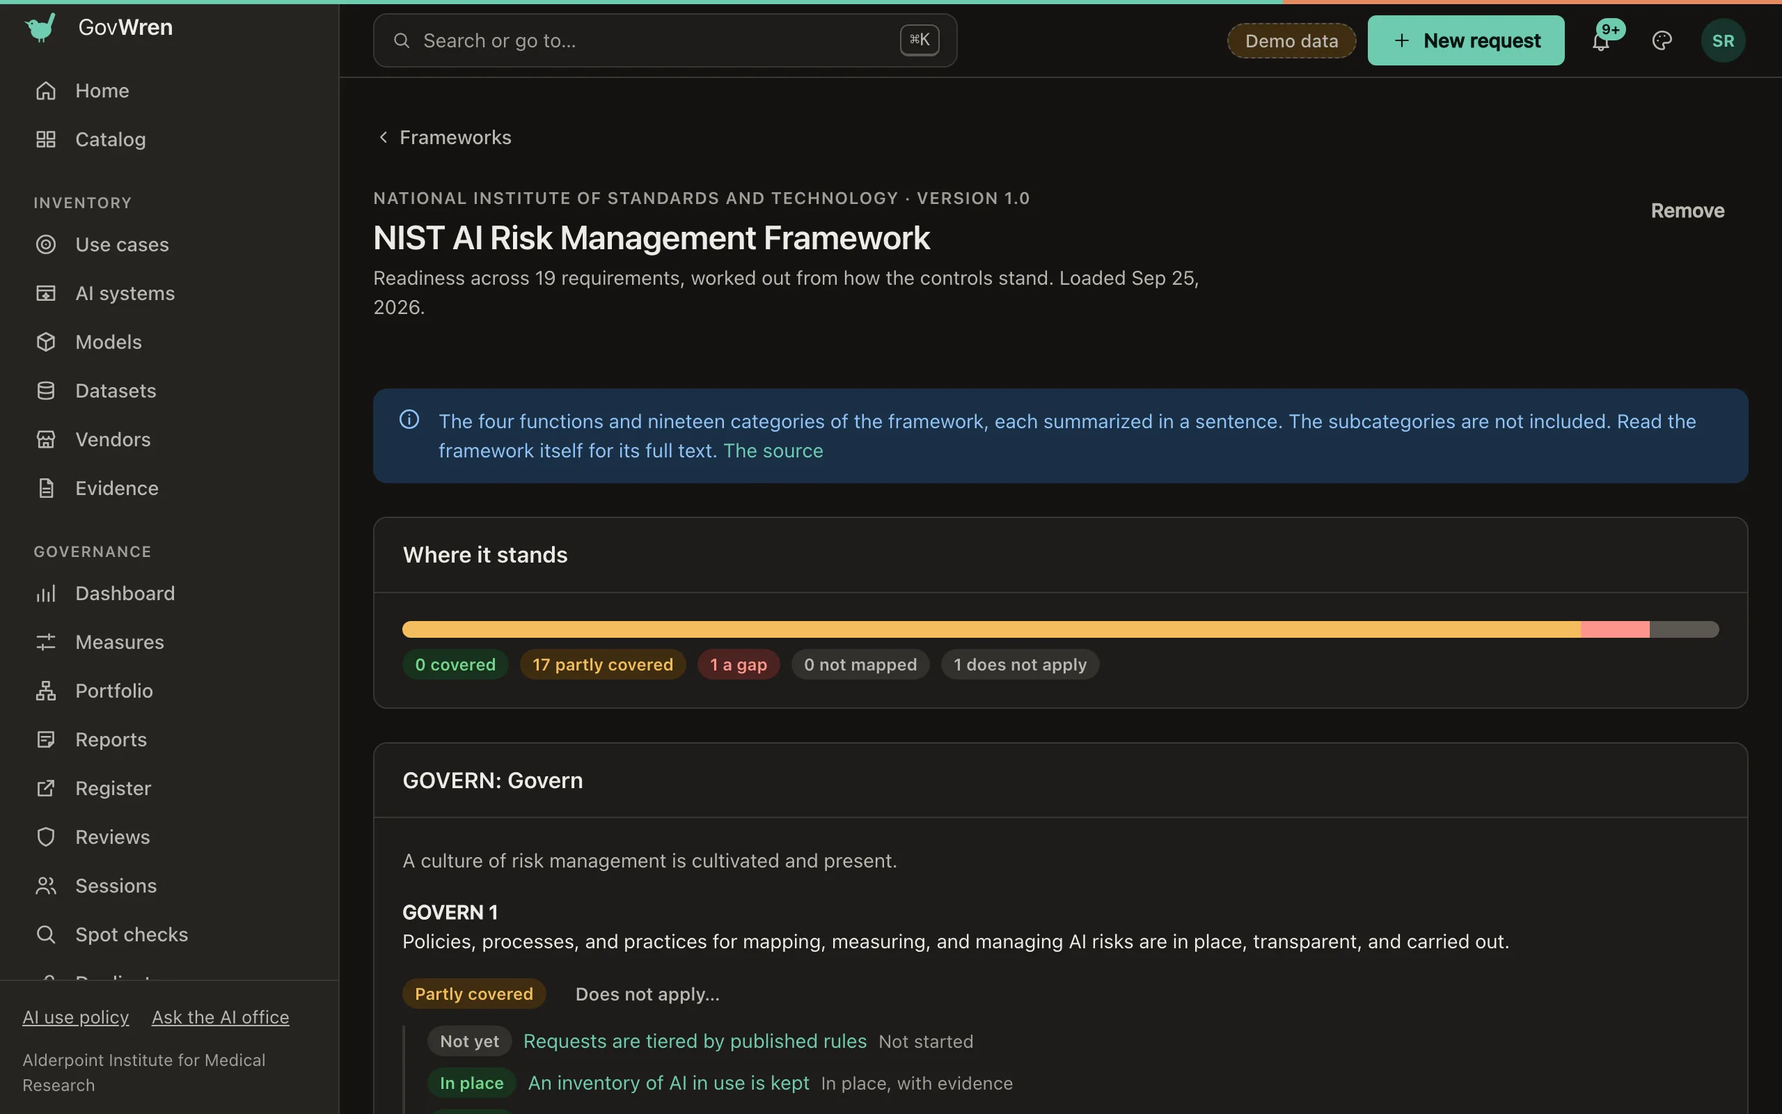
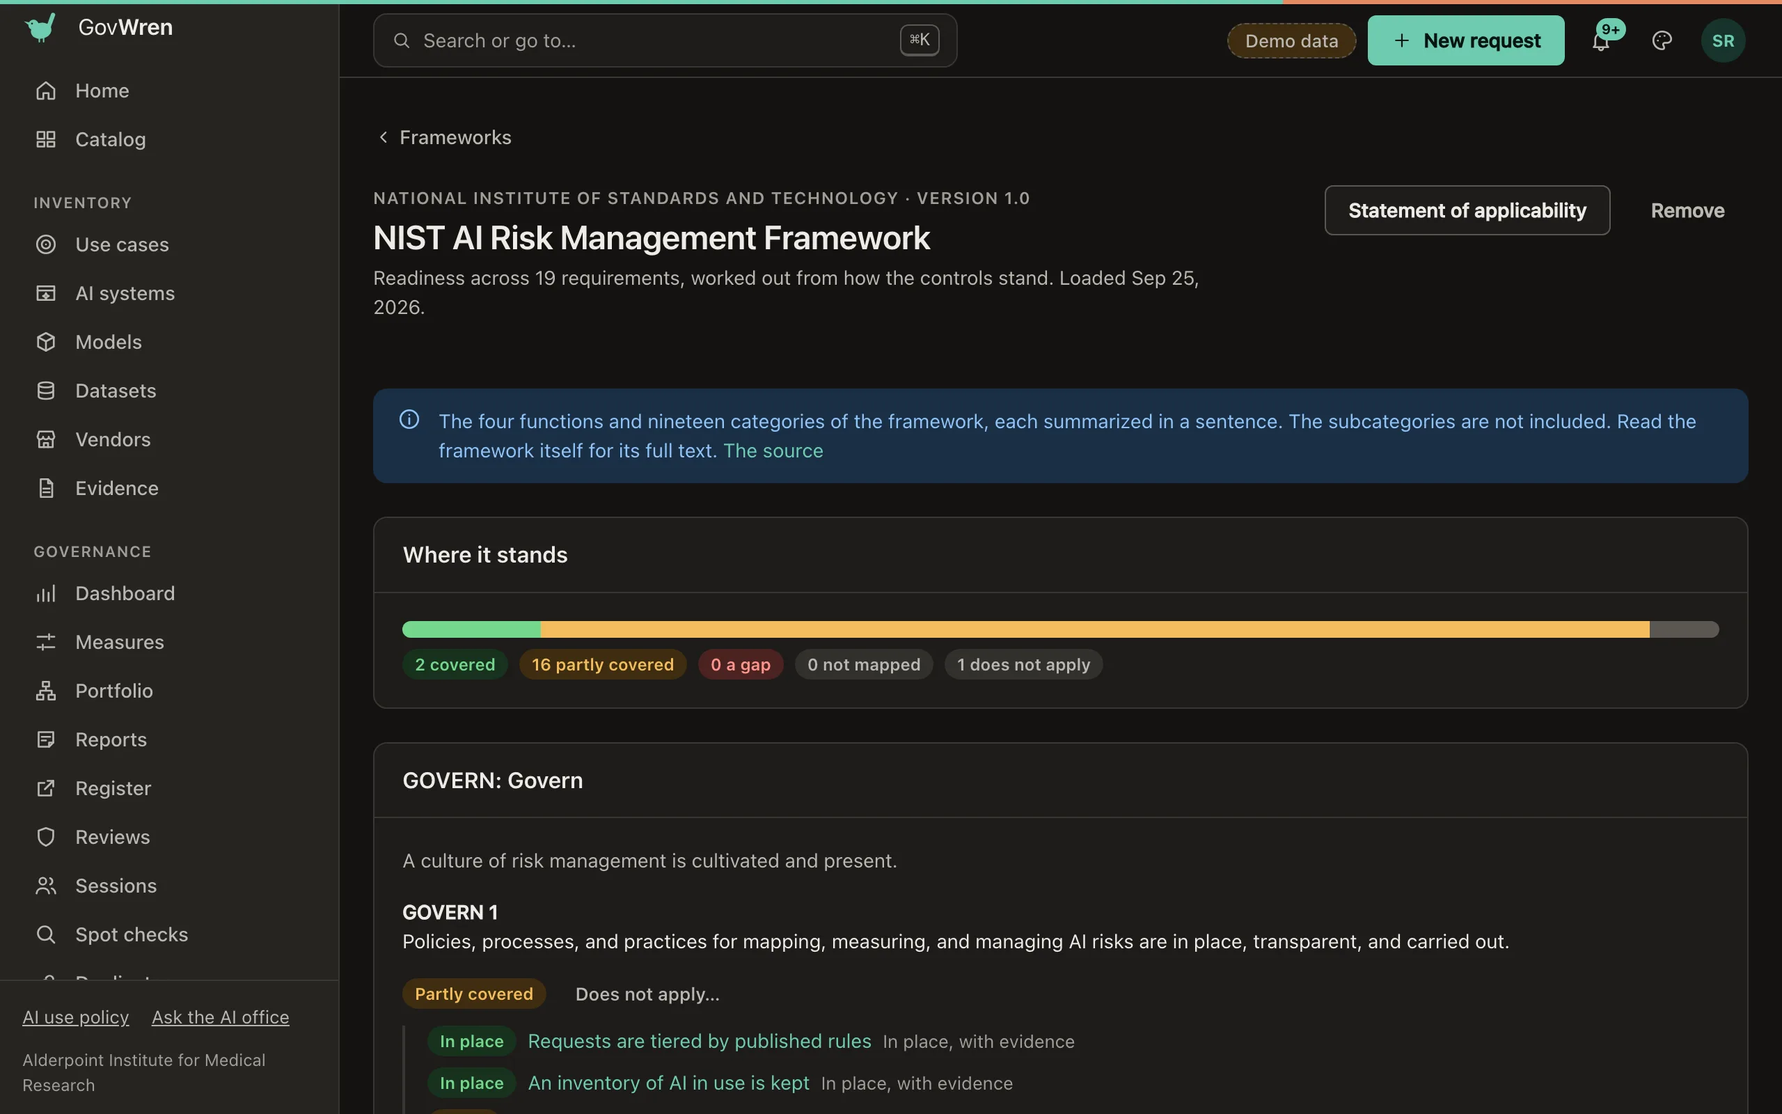
Wave 8, slice 3: applicability and alignment
The statement of applicability against a loaded framework, and a guide
to what GovWren does, evidences, and leaves alone under each standard.

diff --git a/src/govwren/web/static/js/pages/frameworks.js b/src/govwren/web/static/js/pages/frameworks.js
@@ -100,7 +100,8 @@ export function frameworkPage(main, params) {
       return h("div", { class: "stack-lg" },
         h("a", { class: "back-link", href: "/frameworks" }, icon("chevron-left", "icon icon-sm"), "Frameworks"),
         pageHeader({ eyebrow: [framework.publisher, framework.version ? `Version ${framework.version}` : null].filter(Boolean).join(" · "), title: framework.title,
-          lede: `Readiness across ${framework.total} requirements, worked out from how the controls stand. Loaded ${date(framework.loaded_at)}.`, actions: remove }),
+          lede: `Readiness across ${framework.total} requirements, worked out from how the controls stand. Loaded ${date(framework.loaded_at)}.`,
+          actions: [h("a", { class: "btn", href: `/api/v1/statement-of-applicability?framework=${encodeURIComponent(framework.key)}`, download: `statement-of-applicability-${framework.key}.csv` }, "Statement of applicability"), remove] }),
         framework.attribution ? alert("info", icon("info"), h("div", {}, framework.attribution, framework.source_url ? [" ", h("a", { href: framework.source_url, target: "_blank", rel: "noopener noreferrer" }, "The source")] : null)) : null,
         card({ title: "Where it stands" }, summary(framework.counts)),
         framework.requirements.map((group) => card({ title: group.title ? `${group.code}: ${group.title}` : group.code },

diff --git a/src/govwren/assurance/frameworks.py b/src/govwren/assurance/frameworks.py
@@ -389,9 +389,49 @@ def statement_of_applicability(session: Session, principal: Principal) -> list[d
     return out
 
 
-def statement_csv(rows: list[Mapping[str, Any]]) -> str:
+STATE_WORDS = {
+    "covered": "Covered",
+    "partly": "Partly covered",
+    "gap": "Gap",
+    "not_mapped": "No control answers it",
+    "not_applicable": "Does not apply",
+}
+FRAMEWORK_HEADINGS = ["Code", "Requirement", "Applies", "Justification", "State", "Controls"]
+
+
+def framework_statement(
+    session: Session, principal: Principal, framework: Framework
+) -> list[dict[str, Any]]:
+    """The statement of applicability against one framework: each of its requirements with
+    whether it applies, the reason given if it does not, how it stands, and the controls
+    that answer it with where each of those stands."""
+    out: list[dict[str, Any]] = []
+
+    def walk(items: list[dict[str, Any]]) -> None:
+        for item in items:
+            if item["leaf"]:
+                exempt = item["state"] == "not_applicable"
+                out.append(
+                    {
+                        "code": item["code"],
+                        "requirement": item["title"] or "",
+                        "applies": "No" if exempt else "Yes",
+                        "justification": item["justification"] or "",
+                        "state": STATE_WORDS[item["state"]],
+                        "controls": "; ".join(
+                            f"{c['title']} ({c['detail']})" for c in item["controls"]
+                        ),
+                    }
+                )
+            walk(item["children"])
+
+    walk(readiness(session, principal, framework)["requirements"])
+    return out
+
+
+def statement_csv(rows: list[Mapping[str, Any]], headings: list[str] | None = None) -> str:
     out = io.StringIO()
-    headings = [
+    headings = headings or [
         "Key",
         "Group",
         "Control",

diff --git a/src/govwren/api/routers/assurance.py b/src/govwren/api/routers/assurance.py
@@ -401,17 +401,31 @@ def set_applicability(request: Request, key: str, body: Applicability) -> dict[s
     response_class=Response,
 )
 def statement_of_applicability(
-    request: Request, format: str = Query("csv", description="csv or json")
+    request: Request,
+    format: str = Query("csv", description="csv or json"),
+    framework: str | None = Query(
+        None, description="A loaded framework's key, to list its requirements instead"
+    ),
 ) -> Response:
     """The control library as one list: applicability, justification, status, owner, and
-    evidence for each control. It needs no framework to be loaded."""
+    evidence for each control. It needs no framework to be loaded. Name a loaded framework
+    and the list is that framework's requirements instead: whether each applies, why not if
+    it does not, how it stands, and the controls that answer it."""
     principal = current(request)
     with reading(request) as session:
-        rows = frameworks.statement_of_applicability(session, principal)
+        if framework:
+            rows = frameworks.framework_statement(
+                session, principal, frameworks.find(session, framework)
+            )
+            sheet = frameworks.statement_csv(rows, frameworks.FRAMEWORK_HEADINGS)
+        else:
+            rows = frameworks.statement_of_applicability(session, principal)
+            sheet = frameworks.statement_csv(rows)
     if format == "json":
         return JSONResponse(envelope(rows))
+    name = f"statement-of-applicability{'-' + framework if framework else ''}.csv"
     return Response(
-        frameworks.statement_csv(rows),
+        sheet,
         media_type="text/csv; charset=utf-8",
-        headers={"Content-Disposition": 'attachment; filename="statement-of-applicability.csv"'},
+        headers={"Content-Disposition": f'attachment; filename="{name}"'},
     )

diff --git a/tests/test_frameworks.py b/tests/test_frameworks.py
@@ -229,6 +229,22 @@ def test_frameworks_and_the_statement_over_the_api(
         "data"
     ]
     assert {"key", "applies", "justification", "status", "owner", "evidence"} <= set(as_json[0])
+    against = auditor.get("/api/v1/statement-of-applicability", params={"framework": "nist-ai-rmf"})
+    assert (
+        'filename="statement-of-applicability-nist-ai-rmf.csv"'
+        in (against.headers["content-disposition"])
+    )
+    rows = against.text.splitlines()
+    assert rows[0] == "Code,Requirement,Applies,Justification,State,Controls" and len(rows) == 20
+    listed = auditor.get(
+        "/api/v1/statement-of-applicability", params={"framework": "nist-ai-rmf", "format": "json"}
+    ).json()["data"]
+    exempt = next(row for row in listed if row["code"] == "GOVERN 3")
+    assert (exempt["applies"], exempt["state"]) == ("No", "Does not apply")
+    assert exempt["justification"] == "Handled by people services."
+    assert any(row["applies"] == "Yes" and "(" in row["controls"] for row in listed)
+    missing = auditor.get("/api/v1/statement-of-applicability", params={"framework": "nothing"})
+    assert missing.status_code == 404
     assert governance.delete("/api/v1/frameworks/house-rules").status_code == 200
     assert auditor.get("/api/v1/frameworks/house-rules").status_code == 404
 

diff --git a/docs/standards.md b/docs/standards.md
@@ -1,0 +1,112 @@
+# Standards alignment
+
+People adopting GovWren are often asked how it relates to a standard: the NIST AI Risk Management Framework, ISO/IEC 42001, or HIPAA. This guide answers that plainly: what GovWren gives you evidence for, what it leaves to you, and how to produce the documents an assessor asks for.
+
+Nothing here is needed to use GovWren. The [control library](assurance.md#controls) stands on its own, and a framework is a second way of looking at the same controls.
+
+## What GovWren is in a standard's terms
+
+GovWren is a system of record for a governance program. It holds the inventory, the decisions and their reasons, the controls and their evidence, and a history that cannot be quietly changed. In a standard's terms it is where *documented information* lives and where you show that a process was followed.
+
+It is passive. It does not scan networks, read logs, test models, or enforce anything inside another system. So for any requirement there are three honest answers, and this guide uses them throughout:
+
+| Answer | Means |
+|---|---|
+| GovWren does it | The requirement is about keeping a record, running a review, or deciding with reasons, and GovWren is where that happens |
+| GovWren holds the evidence | Someone else does the work, in another system or on paper, and GovWren records that it was done, by whom, and with what proof |
+| Outside GovWren | The requirement is about something GovWren has no part in, and no control answers it. It shows as *Not mapped*, never as covered |
+
+No software makes an organization compliant. GovWren does not certify anything, and an assessor or your own counsel decides whether what you hold is enough.
+
+## How alignment works
+
+1. **Controls** are what your program does. Each has a standing, an owner, evidence, and a date it is next checked.
+2. A **framework pack** lists a standard's requirements and maps each to the controls that answer it.
+3. **Readiness** is worked out, not typed in: a requirement is covered when every control mapped to it is in place with evidence that is still good.
+4. The **statement of applicability** is the same picture as a spreadsheet, for a person outside the program.
+
+Three frameworks are built in. Load one from **Frameworks**, or with `POST /api/v1/frameworks`. Loading changes no control and no record.
+
+| Framework | Requirements | Answered by a control | What the pack contains |
+|---|---|---|---|
+| NIST AI Risk Management Framework 1.0 | 19 | 18 | Codes, with summaries in GovWren's words |
+| ISO/IEC 42001:2023 | 64 | 53 | Clause and control numbers, with labels and summaries in GovWren's words. None of the standard's text: you need your own copy |
+| HIPAA, as it bears on AI | 25 | 24 | Citations to 45 CFR Part 164, with summaries in GovWren's words |
+
+The summaries are reading aids. The standard or the regulation is the authority, and where a summary and the source differ, the source is right.
+
+## NIST AI Risk Management Framework
+
+The framework is voluntary and organized as four functions. GovWren maps to its categories.
+
+| Function | GovWren does it | GovWren holds the evidence |
+|---|---|---|
+| Govern | Roles, policies with acknowledgment, the inventory, review rules, decisions with reasons, exceptions that end, retirement | Training of reviewers, leadership review |
+| Map | Intake: purpose, people affected, data, autonomy; the tier and why; impact assessments | |
+| Measure | The program's own measures; spot checks of automatic approvals | Testing and evaluation of a model, done by its owners, attached as evidence |
+| Manage | Conditions, periodic review, incidents, changes declared and reviewed, risks with treatments and owners | Monitoring of a system in use |
+
+One category is not mapped: the one about the make-up and diversity of the workforce that governs AI. That belongs to how you staff the program, and no record in GovWren answers it.
+
+## ISO/IEC 42001
+
+ISO/IEC 42001 describes a management system for AI: clauses 4 to 10, and a set of controls in Annex A. Certification is granted by an accredited body after an audit. GovWren is not certified and cannot certify you. What it can do is hold most of what the audit looks at.
+
+| Part | GovWren does it | GovWren holds the evidence | Outside GovWren |
+|---|---|---|---|
+| 4 Context, 5 Leadership | Scope, roles, the policy and who has acknowledged it | Leadership's commitment, as approvals and minutes | |
+| 6 Planning | The risk register, treatments, impact assessments, objectives as measures | | Planning of changes to the management system itself |
+| 7 Support | Policies and records as controlled documents; reviewer training as a control | Competence and awareness | Resources; communication plans |
+| 8 Operation | Intake, tiering, review, decision, conditions | | |
+| 9 Performance evaluation | Measures, reports to leadership, the dossier | Internal audit and management review | |
+| 10 Improvement | Findings, actions, incidents, exceptions | | |
+| A.2 to A.5 | Policies, roles, the inventory of systems, models, data, and vendors, impact assessment | | How the AI policy fits with your other policies; impacts on society as a whole |
+| A.6 Life cycle | Records of a system from request to retirement | Verification, deployment, and monitoring by the people who build or run it | Design and development process, for organizations that build AI |
+| A.7 Data | Datasets with their class, origin, terms, and quality checks | Data preparation | |
+| A.8, A.9 | Terms of use shown to users, incident reporting, intended use, human oversight | | Reporting to outside parties |
+| A.10 Third parties | Vendors, due diligence, agreements and the systems they cover | | Obligations to your own customers |
+
+Eleven requirements are not mapped, and the table's last column says where they fall. If your organization only *uses* AI and does not build it, several of the life cycle controls may not apply: mark them **Does not apply…** with the reason, and that reason is carried into the statement of applicability.
+
+## HIPAA
+
+GovWren can help a covered entity or business associate show how AI tools are governed. Three points come first.
+
+- **GovWren should hold no health information.** Forms ask people to describe data, not paste it. Keep it that way.
+- **The technical safeguards are performed by the systems that hold the data.** Access control, audit logs, integrity, and encryption happen in the AI tool and around it. GovWren holds the evidence that they are in place, as the control *Access, logging, and encryption are shown for tools that hold sensitive data*.
+- **This is not legal advice.** Whether an arrangement needs a business associate agreement, and whether data is de-identified, are judgments for your privacy officer and counsel. GovWren records the judgment and who made it.
+
+| Area | GovWren does it | GovWren holds the evidence |
+|---|---|---|
+| Risk analysis and risk management | The inventory of every AI tool that touches health information, its tier, its risks and treatments | The security risk analysis itself, if it is done elsewhere |
+| Assigned responsibility, workforce | Named owners and roles; policies and acknowledgment | Training records |
+| Business associates | Agreements, the AI systems each covers, and the [rule](running-the-program.md#health-information-needs-a-covering-agreement) that stops approval without one | The signed agreement |
+| Evaluation | Periodic review, declared changes, spot checks | |
+| Technical safeguards | | Access control, audit controls, integrity, authentication, transmission security |
+| Uses and disclosures, minimum necessary, de-identification | Intake questions, privacy review, conditions on the approval | The de-identification determination |
+| Breach notification | Incidents, with what happened and what was decided | The risk assessment and the notices sent |
+
+One requirement is not mapped: contingency planning, which is about backup and recovery of the systems that hold the data.
+
+## Produce the statement of applicability
+
+An assessor usually asks for one document that lists every requirement, says whether it applies, why not if it does not, and what answers it.
+
+1. Open **Frameworks**, then the framework.
+2. For each requirement that does not apply to you, choose **Does not apply…** and give the reason.
+3. Choose **Statement of applicability**. The spreadsheet has one row for each requirement: its code, its title, whether it applies, the justification, how it stands, and the controls that answer it with where each stands.
+
+The same list comes from `GET /api/v1/statement-of-applicability?framework=iso-iec-42001`, as CSV or, with `format=json`, as JSON. Without `framework`, the list is the [control library](assurance.md#the-statement-of-applicability) instead, which needs no framework loaded.
+
+For the evidence behind the rows, make a [dossier](insight.md) of a record, or open a control to see what is attached and when it was last checked.
+
+## Another standard
+
+A framework is a data file. If you answer to a standard that is not built in, write a pack for it: its requirements by code, and which controls answer each. [Frameworks](assurance.md#frameworks) in the Assurance guide describes the format. Use the publisher's codes and your own words; do not copy text you have no right to distribute.
+
+## What stays your job
+
+- Deciding which standards you answer to, and what is in scope.
+- Doing the technical work the records describe.
+- Keeping evidence current. GovWren tells you when it has expired; it cannot renew it.
+- Reading the standard. A pack is a map of it, not a replacement.

diff --git a/docs/README.md b/docs/README.md
@@ -13,6 +13,7 @@ These guides describe the version of GovWren they ship with. Read them in this o
 | 4 | [Running the program](running-the-program.md) | Governance leads and administrators | Roles, units, imports, the catalog, data classes, tiers, routing rules, program packs, the dashboard, the history, appearance |
 | 5 | [Keeping watch](keeping-watch.md) | Owners, stewards, and governance | Periodic reviews, lapsed approvals, attestation campaigns, declaring a change, retiring a record, exceptions, incidents, actions, committee sessions, risk acceptance, spot checks |
 | 6 | [Assurance](assurance.md) | Governance, owners, and reviewers | The risk register, the control library, evidence freshness, policies, assessments, frameworks, and the statement of applicability |
+| | [Standards alignment](standards.md) | Governance, auditors, and whoever is asked how GovWren relates to a standard | What GovWren does, holds evidence for, and leaves to you under the NIST AI RMF, ISO/IEC 42001, and HIPAA; producing a statement of applicability |
 | 7 | [Insight](insight.md) | Governance, auditors, and administrators | The program's measures, the portfolio grouped five ways, the unit report, reports to leadership, any day in the past, the dossier, open formats, and the transparency register |
 | 8 | [Configuration](configuration.md) | Whoever runs the server | `govwren.toml`, environment overrides, the data home, PostgreSQL, reverse proxies, the demo guard |
 | 9 | [Deployment](deployment.md) | Whoever puts it into production | A container image, compose with PostgreSQL, a systemd service, reverse proxies, `doctor --production`, and the operations view |

diff --git a/CHANGELOG.md b/CHANGELOG.md
@@ -14,6 +14,8 @@ release. Before 1.0, a release may contain breaking changes; they are listed und
 - An agreement names the AI systems it covers and the edition or configuration it applies to. A vendor records whether it will sign an agreement covering health information. From these, every AI system shows where it stands for health information: on its page, in the catalog, and in the checkpoint's answer as `health_agreement`.
 - A rule that a use involving health information is not approved while a tool it uses has no covering agreement. It stops a person deciding, keeps a rule from approving, and turns a quick catalog registration into a request. De-identified data, tools on your own equipment, and an approved exception are let through. It is a switch on the Catalog page, and `health_agreement_rule` on `PUT /api/v1/admin/inventory`.
 - A control, *A signed agreement covers each supplier's tool that receives health information*, mapped into the HIPAA and ISO/IEC 42001 packs.
+- The statement of applicability against a loaded framework: one row for each requirement, with whether it applies, why not, how it stands, and the controls that answer it. It is a button on the framework's page, and `framework=` on `GET /api/v1/statement-of-applicability`.
+- A guide, *Standards alignment*: what GovWren does, what it holds evidence for, and what is outside it under the NIST AI RMF, ISO/IEC 42001, and HIPAA.
 
 ### Changed
 

diff --git a/docs/assurance.md b/docs/assurance.md
@@ -298,3 +298,7 @@ To say a requirement does not apply to the organization, choose **Does not apply
 **Statement of applicability**, on the Frameworks page, downloads the whole control library as a spreadsheet: each control, whether it applies and why, how it stands, who owns it, and the evidence behind it. It needs no framework to be loaded.
 
 The same list is available from the API at `GET /api/v1/statement-of-applicability`, as CSV or, with `format=json`, as JSON.
+
+A loaded framework has its own **Statement of applicability** button, on its page. That spreadsheet has one row for each of the framework's requirements: its code and title, whether it applies, the reason given if it does not, how it stands, and the controls that answer it with where each stands. From the API, add `framework=` and the framework's key.
+
+[Standards alignment](standards.md) says, for each built-in framework, what GovWren does, what it only holds the evidence for, and what is outside it.

diff --git a/README.md b/README.md
@@ -141,6 +141,7 @@ Start with the [guide index](docs/README.md), or go straight to the guide for yo
 | [Running the program](docs/running-the-program.md) | Governance leads and administrators |
 | [Keeping watch](docs/keeping-watch.md) | Owners, stewards, and governance, once things are approved |
 | [Assurance](docs/assurance.md) | Governance, owners, and reviewers |
+| [Standards alignment](docs/standards.md) | Whoever is asked how GovWren relates to a standard |
 | [Insight](docs/insight.md) | Governance, auditors, and administrators |
 | [Configuration](docs/configuration.md) | Whoever runs the server |
 | [Deployment](docs/deployment.md) | Whoever puts it into production |

diff --git a/spec/waves/wave-8.md b/spec/waves/wave-8.md
@@ -45,10 +45,10 @@ The rule is on for a new installation and off for one that already holds records
 (migration 0031 records the setting), so an upgrade changes no decision until someone
 turns it on.
 
-## Slice 3: Applicability and alignment ☐
+## Slice 3: Applicability and alignment ☑
 
-- [ ] The statement of applicability against a loaded framework
-- [ ] A guide to what GovWren evidences for each standard, and what it does not do
+- [x] The statement of applicability against a loaded framework
+- [x] A guide to what GovWren evidences for each standard, and what it does not do
 
 ## Slice 4: Agents ☐
 
